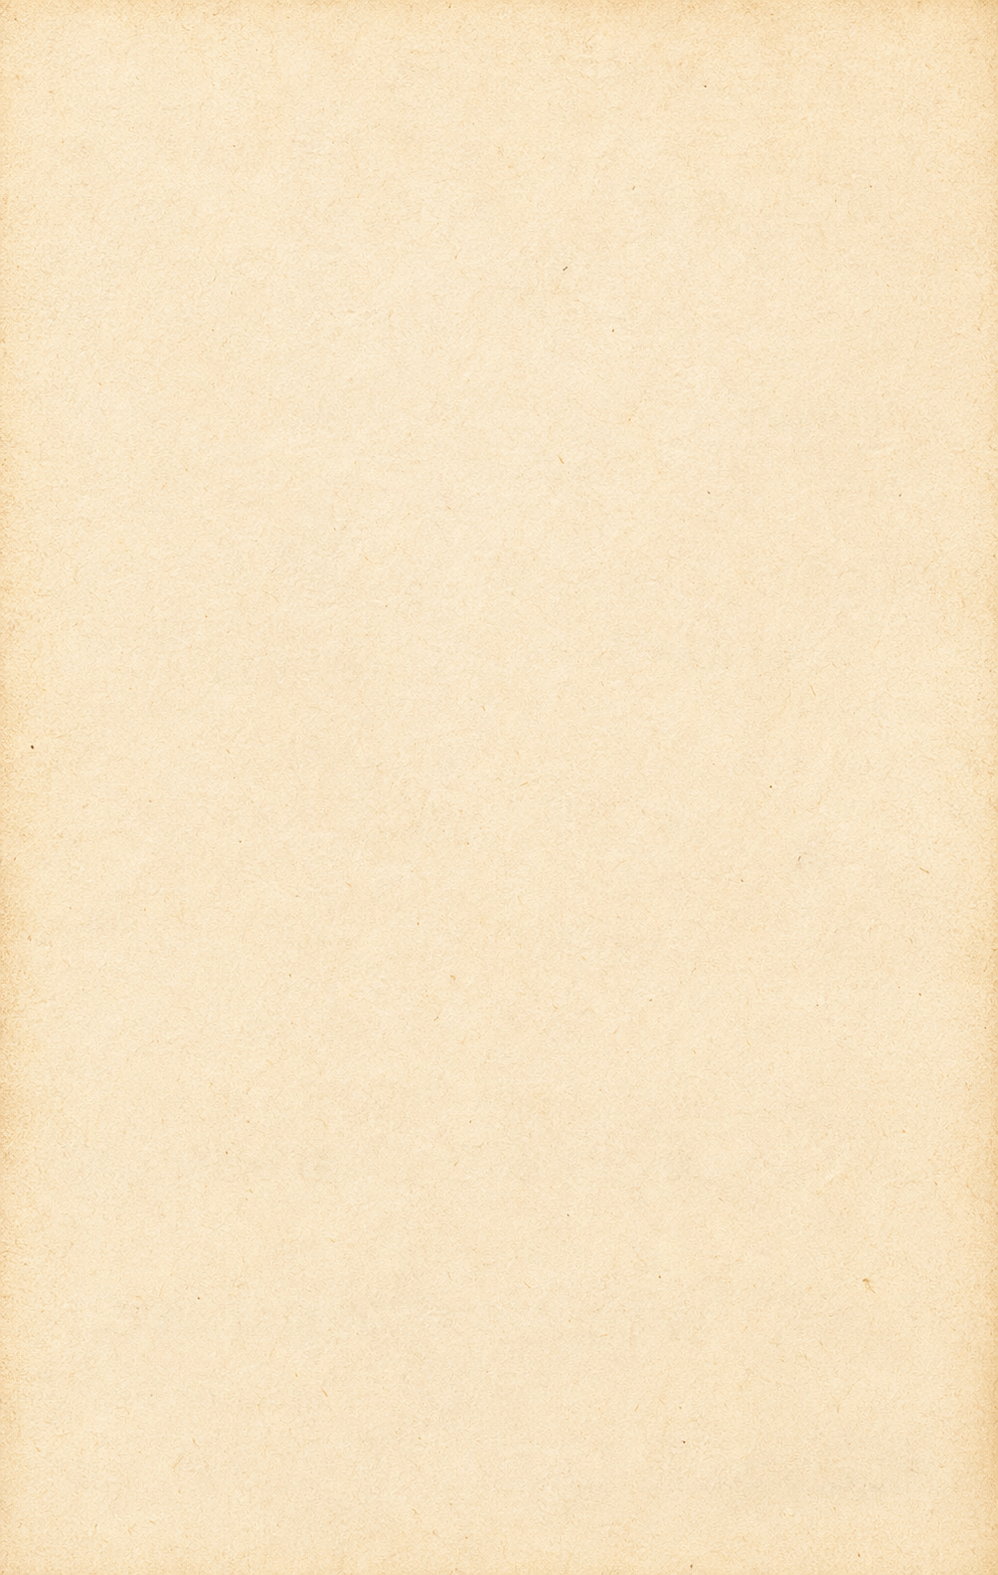
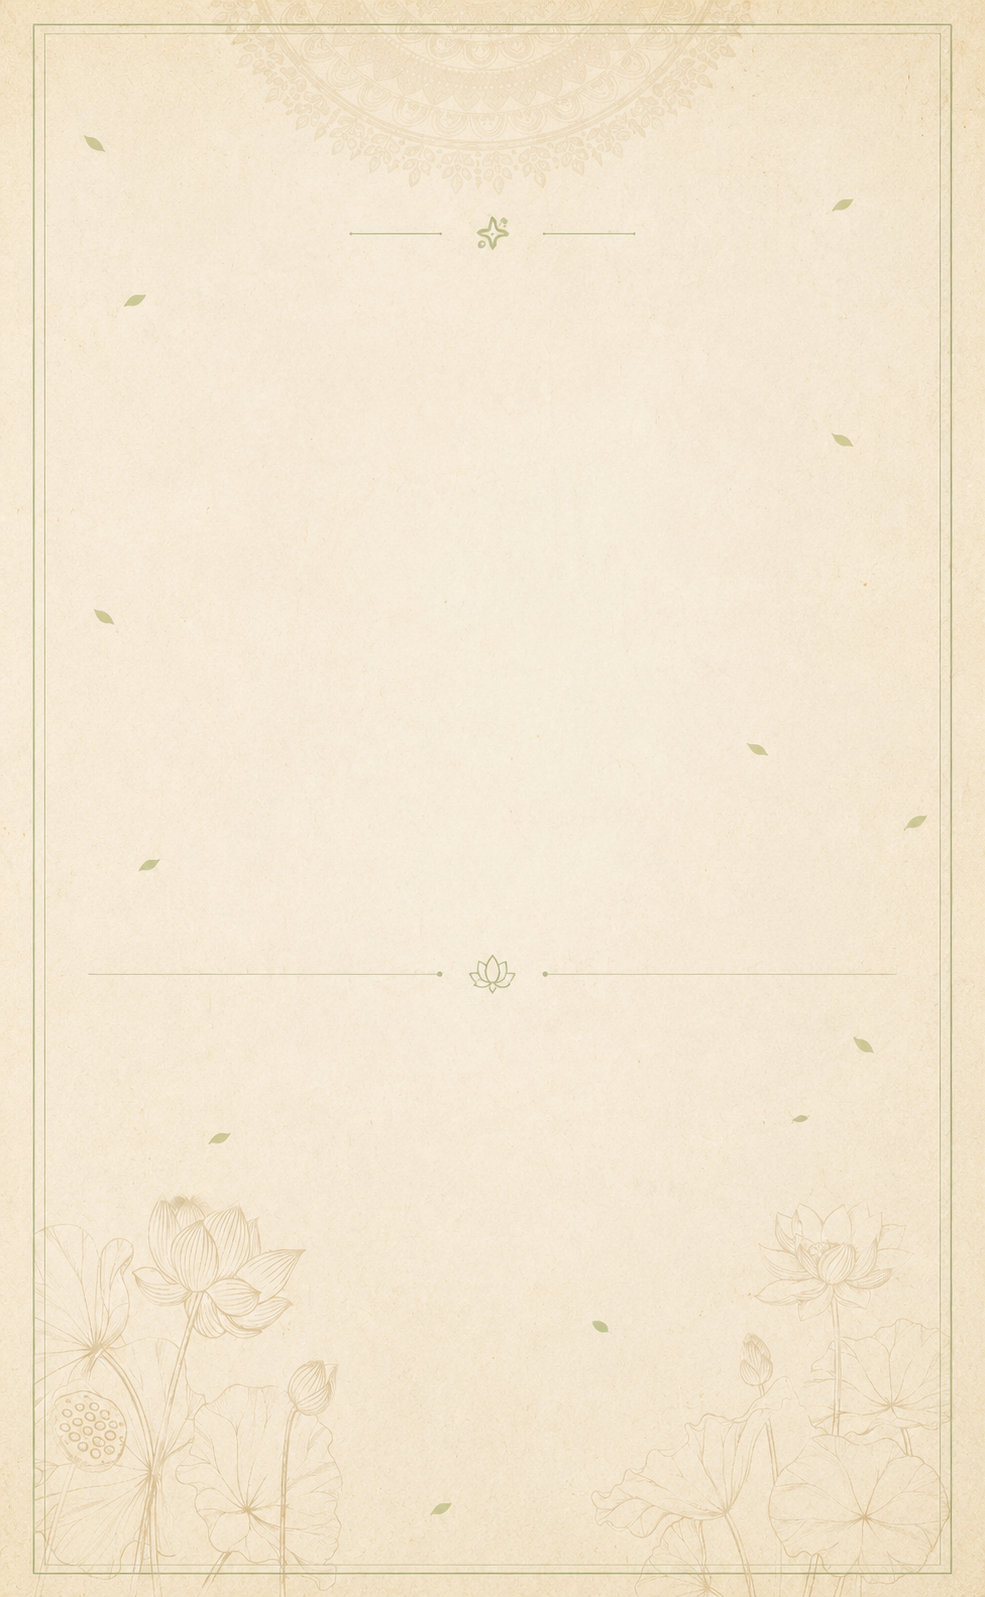
Update wedding invitation details and add Admin Link Generator

diff --git a/src/Admin.tsx b/src/Admin.tsx
@@ -1,0 +1,198 @@
+import React, { useState, useEffect } from 'react';
+
+interface GeneratedLink {
+  id: string;
+  prefix: string;
+  guestName: string;
+  url: string;
+  createdAt: string;
+}
+
+export default function Admin() {
+  const [prefix, setPrefix] = useState('Mr. & Mrs.');
+  const [guestName, setGuestName] = useState('');
+  const [links, setLinks] = useState<GeneratedLink[]>([]);
+  const [copiedId, setCopiedId] = useState<string | null>(null);
+
+  useEffect(() => {
+    const saved = localStorage.getItem('generatedLinks');
+    if (saved) {
+      setLinks(JSON.parse(saved));
+    }
+  }, []);
+
+  const prefixes = [
+    'Mr. & Mrs.',
+    'Mr.',
+    'Mrs.',
+    'Ms.',
+    'Miss',
+    'Dr. & Mrs.',
+    'Dr.',
+    'Prof.',
+    'Rev.',
+    'To'
+  ];
+
+  const handleGenerate = (e: React.FormEvent) => {
+    e.preventDefault();
+    if (!guestName.trim()) return;
+
+    const fullName = `${prefix} ${guestName.trim()}`;
+    const baseUrl = window.location.origin;
+    const url = `${baseUrl}/?to=${encodeURIComponent(fullName)}`;
+    
+    const newLink: GeneratedLink = {
+      id: crypto.randomUUID(),
+      prefix,
+      guestName: guestName.trim(),
+      url,
+      createdAt: new Date().toLocaleString('en-GB', { 
+        day: '2-digit', 
+        month: '2-digit', 
+        year: 'numeric', 
+        hour: '2-digit', 
+        minute: '2-digit' 
+      }),
+    };
+
+    const newLinks = [newLink, ...links];
+    setLinks(newLinks);
+    localStorage.setItem('generatedLinks', JSON.stringify(newLinks));
+    setGuestName('');
+  };
+
+  const handleCopy = async (link: GeneratedLink) => {
+    try {
+      await navigator.clipboard.writeText(link.url);
+      setCopiedId(link.id);
+      setTimeout(() => setCopiedId(null), 2000);
+    } catch (err) {
+      console.error('Failed to copy', err);
+    }
+  };
+
+  const handleDelete = (id: string) => {
+    const newLinks = links.filter(l => l.id !== id);
+    setLinks(newLinks);
+    localStorage.setItem('generatedLinks', JSON.stringify(newLinks));
+  };
+
+  return (
+    <div className="min-h-screen bg-slate-50 py-12 px-4 font-sans">
+      <div className="max-w-3xl mx-auto space-y-8">
+        
+        {/* Generator Card */}
+        <div className="bg-white rounded-2xl shadow-sm border border-slate-200 p-6 md:p-8">
+          <h1 className="text-2xl font-bold text-slate-800 mb-6 flex items-center gap-2">
+            <svg width="24" height="24" viewBox="0 0 24 24" fill="none" stroke="currentColor" strokeWidth="2" strokeLinecap="round" strokeLinejoin="round" className="text-emerald-600">
+              <path d="M10 13a5 5 0 0 0 7.54.54l3-3a5 5 0 0 0-7.07-7.07l-1.72 1.71"></path>
+              <path d="M14 11a5 5 0 0 0-7.54-.54l-3 3a5 5 0 0 0 7.07 7.07l1.71-1.71"></path>
+            </svg>
+            LINK GENERATOR
+          </h1>
+
+          <form onSubmit={handleGenerate} className="space-y-5">
+            <div className="grid grid-cols-1 md:grid-cols-3 gap-5">
+              <div className="space-y-2">
+                <label className="text-sm font-semibold text-slate-600">Select Prefix</label>
+                <select
+                  value={prefix}
+                  onChange={(e) => setPrefix(e.target.value)}
+                  className="w-full bg-slate-50 border border-slate-200 rounded-xl px-4 py-3 text-slate-800 focus:outline-none focus:ring-2 focus:ring-emerald-500/20 focus:border-emerald-500 transition-all appearance-none"
+                >
+                  {prefixes.map(p => (
+                    <option key={p} value={p}>{p}</option>
+                  ))}
+                </select>
+              </div>
+
+              <div className="space-y-2 md:col-span-2">
+                <label className="text-sm font-semibold text-slate-600">Guest Name</label>
+                <input
+                  type="text"
+                  placeholder="e.g. John Doe"
+                  value={guestName}
+                  onChange={(e) => setGuestName(e.target.value)}
+                  className="w-full bg-slate-50 border border-slate-200 rounded-xl px-4 py-3 text-slate-800 focus:outline-none focus:ring-2 focus:ring-emerald-500/20 focus:border-emerald-500 transition-all placeholder:text-slate-400"
+                  required
+                />
+              </div>
+            </div>
+
+            <button
+              type="submit"
+              className="w-full bg-emerald-600 hover:bg-emerald-700 text-white font-semibold py-3.5 rounded-xl transition-colors shadow-sm active:scale-[0.99] flex justify-center items-center gap-2"
+            >
+              <svg width="20" height="20" viewBox="0 0 24 24" fill="none" stroke="currentColor" strokeWidth="2" strokeLinecap="round" strokeLinejoin="round">
+                <line x1="12" y1="5" x2="12" y2="19"></line>
+                <line x1="5" y1="12" x2="19" y2="12"></line>
+              </svg>
+              Generate Link
+            </button>
+          </form>
+        </div>
+
+        {/* Generated Links List */}
+        <div className="bg-white rounded-2xl shadow-sm border border-slate-200 p-6 md:p-8">
+          <h2 className="text-lg font-bold text-slate-800 mb-6 flex items-center gap-2">
+            <svg width="20" height="20" viewBox="0 0 24 24" fill="none" stroke="currentColor" strokeWidth="2" strokeLinecap="round" strokeLinejoin="round" className="text-slate-400">
+              <circle cx="12" cy="12" r="10"></circle>
+              <polyline points="12 6 12 12 16 14"></polyline>
+            </svg>
+            Recently Generated Links
+          </h2>
+
+          {links.length === 0 ? (
+            <div className="text-center py-10 text-slate-400 text-sm">
+              No links generated yet.
+            </div>
+          ) : (
+            <div className="space-y-4">
+              {links.map((link) => (
+                <div key={link.id} className="group flex flex-col md:flex-row md:items-center justify-between p-4 rounded-xl border border-slate-100 bg-slate-50/50 hover:border-slate-200 transition-colors gap-4">
+                  <div className="min-w-0">
+                    <p className="font-medium text-slate-800 truncate">
+                      {link.prefix} {link.guestName}
+                    </p>
+                    <p className="text-xs text-slate-500 mt-1">
+                      {link.createdAt.replace(',', '')}
+                    </p>
+                  </div>
+
+                  <div className="flex items-center gap-2 shrink-0">
+                    <button
+                      onClick={() => handleCopy(link)}
+                      className="flex-1 md:flex-none flex items-center justify-center gap-2 px-4 py-2 bg-white border border-slate-200 hover:border-slate-300 hover:bg-slate-50 text-slate-700 text-sm font-medium rounded-lg transition-colors"
+                    >
+                      {copiedId === link.id ? (
+                        <>
+                          <svg width="16" height="16" viewBox="0 0 24 24" fill="none" stroke="currentColor" strokeWidth="2" strokeLinecap="round" strokeLinejoin="round" className="text-emerald-500"><polyline points="20 6 9 17 4 12"></polyline></svg>
+                          Copied!
+                        </>
+                      ) : (
+                        <>
+                          <svg width="16" height="16" viewBox="0 0 24 24" fill="none" stroke="currentColor" strokeWidth="2" strokeLinecap="round" strokeLinejoin="round" className="text-slate-400"><rect x="9" y="9" width="13" height="13" rx="2" ry="2"></rect><path d="M5 15H4a2 2 0 0 1-2-2V4a2 2 0 0 1 2-2h9a2 2 0 0 1 2 2v1"></path></svg>
+                          Copy
+                        </>
+                      )}
+                    </button>
+                    
+                    <button
+                      onClick={() => handleDelete(link.id)}
+                      className="p-2 text-slate-400 hover:text-red-500 hover:bg-red-50 rounded-lg transition-colors"
+                      title="Delete link"
+                    >
+                      <svg width="18" height="18" viewBox="0 0 24 24" fill="none" stroke="currentColor" strokeWidth="2" strokeLinecap="round" strokeLinejoin="round"><path d="M3 6h18"></path><path d="M19 6v14a2 2 0 0 1-2 2H7a2 2 0 0 1-2-2V6m3 0V4a2 2 0 0 1 2-2h4a2 2 0 0 1 2 2v2"></path><line x1="10" y1="11" x2="10" y2="17"></line><line x1="14" y1="11" x2="14" y2="17"></line></svg>
+                    </button>
+                  </div>
+                </div>
+              ))}
+            </div>
+          )}
+        </div>
+
+      </div>
+    </div>
+  );
+}

diff --git a/src/App.tsx b/src/App.tsx
@@ -4,29 +4,29 @@ import { Sparkles, MapPin, Calendar, Clock, ChevronDown } from "lucide-react";
 
 const INVITATION = {
   couple: {
-    bride: "සයුරි",
-    groom: "චතුර",
-    brideFull: "සයුරි",
-    groomFull: "චතුර",
+    bride: "මලීෂා",
+    groom: "කවිඳු",
+    brideFull: "මලීෂා කුමාරප්පෙරුම",
+    groomFull: "කවිඳු ගෝවින්ද",
   },
   date: {
-    displayNumeric: "05 . 11 . 2026",
-    displayLong: "බ්රහස්පතින්දා, 05 නොවැම්බර් 2026",
-    countdownTarget: "2026-11-05T10:02:00+05:30",
+    displayNumeric: "23 . 07 . 2026",
+    displayLong: "වර්ෂ 2026 ක් වූ ජූලි මස 23 වන දින",
+    countdownTarget: "2026-07-23T10:10:00+05:30",
   },
   time: {
-    ceremonyStart: "පෙ.ව. 10:02",
-    ceremonyEnd: "පෙ.ව. 10:32",
+    ceremonyStart: "පෙ.ව. 10:10",
+    ceremonyEnd: "ප.ව. 3:30",
     registration: "පෙ.ව. 10:45",
-    welcome: "පෙ.ව. 11:00",
+    welcome: "පෙ.ව. 9:30",
   },
   venue: {
-    name: "අමායා හිල්ස්",
-    city: "මහනුවර",
-    mapQuery: "Amaya Hills, Kandy",
-    googleMapsLink: "https://www.google.com/maps/search/?api=1&query=Amaya+Hills+Kandy",
+    name: "Grandeeza Hotel",
+    city: "Negombo",
+    mapQuery: "Grandeeza Hotel, Negombo",
+    googleMapsLink: "https://maps.app.goo.gl/oFXbL74vBvHcvBX69",
   },
-  rsvpContacts: ["චන්දන – 076 9640 950", "චතුර – 077 1432 866"],
+  rsvpContacts: ["එස්. කුමාරප්පෙරුම – 0711-321721 / 071-2657070"],
 } as const;
 
 const backgroundMusic = "/Datha_Dara_Dhanith_Sri_Sarigama_lk (1).mp3";
@@ -263,6 +263,9 @@ export default function WeddingInvitation() {
   const [isPlaying, setIsPlaying] = useState(false);
   const [hasAttemptedAutoplay, setHasAttemptedAutoplay] = useState(false);
 
+  const searchParams = new URLSearchParams(window.location.search);
+  const guestName = searchParams.get("to");
+
   const [rsvpForm, setRsvpForm] = useState({
     name: "",
     guests: "1",
@@ -378,7 +381,6 @@ export default function WeddingInvitation() {
           >
             <video
               ref={introVideoRef}
-              src="/intro_video.mp4"
               muted={!hasStarted}
               playsInline
               preload="auto"
@@ -387,8 +389,10 @@ export default function WeddingInvitation() {
               className={`w-full h-full object-cover transition-all duration-[2000ms] ease-out ${!hasStarted ? "blur-md scale-105 opacity-80" : "blur-0 scale-100 opacity-100"
                 }`}
               onEnded={() => setIsOpened(true)}
-              onError={() => setIsOpened(true)}
-            />
+              onError={(e) => { console.error("Video error:", e); setIsOpened(true); }}
+            >
+              <source src="/intro_video.mp4" type="video/mp4" />
+            </video>
 
             {!hasStarted && (
               <div className="absolute inset-0 flex flex-col items-center justify-center z-[120] bg-black/40 backdrop-blur-[2px]">
@@ -521,14 +525,21 @@ export default function WeddingInvitation() {
 
             <section className="w-full relative flex items-start justify-center overflow-hidden bg-transparent min-h-[85vh] pt-20 md:pt-32">
               <div
-                className="absolute inset-0 bg-center bg-cover opacity-30"
-                style={{ backgroundImage: `url("${HERO_BACKGROUND_IMAGE}")` }}
+                className="absolute inset-0 bg-center bg-cover"
+                style={{ backgroundImage: `url("/ChatGPT%20Image%20Jun%208,%202026,%2002_43_56%20AM.png")` }}
                 aria-hidden="true"
               />
-              <div className="absolute inset-0 bg-white/20" aria-hidden="true" />
-              <div className="absolute inset-0 bg-gradient-to-b from-transparent via-white/40 to-white" aria-hidden="true" />
 
               <div className="relative z-10 w-full max-w-5xl px-6 text-center">
+                {guestName && (
+                  <motion.p
+                    initial={{ opacity: 0, y: -10 }}
+                    animate={{ opacity: 1, y: 0 }}
+                    className="text-lg md:text-xl font-bold text-[#2d5a27] mb-2 drop-shadow-[0_0_10px_rgba(255,255,255,0.8)]"
+                  >
+                    {guestName}
+                  </motion.p>
+                )}
                 <motion.p
                   initial={{ opacity: 0, y: -10 }}
                   animate={{ opacity: 1, y: 0 }}
@@ -562,7 +573,7 @@ export default function WeddingInvitation() {
                   initial={{ opacity: 0, y: 16 }}
                   animate={{ opacity: 1, y: 0 }}
                   transition={{ delay: 0.35, duration: 0.8 }}
-                  className="mt-12 space-y-5"
+                  className="mt-4 md:mt-12 space-y-4 md:space-y-5"
                 >
                   <p className="text-sm md:text-base tracking-[0.35em] text-[#2d5a27] font-bold drop-shadow-[0_0_8px_rgba(255,255,255,0.8)]">
                     {INVITATION.date.displayLong}
@@ -620,17 +631,17 @@ export default function WeddingInvitation() {
 
                   <div className="text-[#2d5a27] space-y-6 max-w-3xl mx-auto leading-relaxed text-base md:text-lg">
                     <p className="text-slate-700">
-                      උපාලි ගනේවත්ත මහතාගේ සහ නාලනී උයන්වත්ත මහත්මියගේ ආදරණීය දියණිය වන
+                      කුමාරප්පෙරුම මහතාගේ සහ එම මහත්මියගේ ආදරණීය දියණිය වන
                     </p>
                     <h3 className="text-3xl md:text-4xl font-bold text-[#3f7a39] my-2">
-                      සයුරි,
+                      මලීෂා කුමාරප්පෙරුම
                     </h3>
 
                     <p className="text-slate-700">
-                      ඕ. කේ. අලුත්ගමගේ මහතාගේ සහ රංජනී රාජපක්ෂ මහත්මියගේ ආදරණීය පුත් වන
+                      හෙට්ටිආරච්චිගේ මහතාගේ සහ එම මහත්මියගේ ආදරණීය පුත් වන
                     </p>
                     <h3 className="text-3xl md:text-4xl font-bold text-[#3f7a39] my-2">
-                      චතුර
+                      කවිඳු ගෝවින්ද
                     </h3>
 
                     <p className="text-slate-700 max-w-2xl mx-auto pt-2">
@@ -638,14 +649,17 @@ export default function WeddingInvitation() {
                     </p>
 
                     <div className="py-6 my-4 border-t border-b border-[#a2c5a0]/50 space-y-3 font-semibold text-[#2d5a27]">
-                      <p>2026 නොවැම්බර් මස 05 වන ගුරු දින,</p>
-                      <p>අමායා හිල්ස් උත්සව ශාලා පරිශ්රයට,</p>
-                      <p>ඔබට</p>
-                      <p className="text-lg md:text-xl font-bold">පැමිණෙන මෙන් ගෞරවයෙන් ආරාධනා කර සිටිමු.</p>
+                      <p>වර්ෂ 2026 ක් වූ ජූලි මස 23 වන දින</p>
+                      <p>පෙරවරු 9.30 සිට පස්වරු 3.30 දක්වා,</p>
+                      <p>Grandeeza Hotel - Negombo හිදී පැවැත්වෙන මංගල උත්සවයට</p>
+                      <p className="text-xl md:text-2xl font-bold text-[#800000] my-2">
+                        {guestName ? guestName : "ඔබට / ඔබ දෙපලට / ඔබ සැමට"}
+                      </p>
+                      <p className="text-lg md:text-xl font-bold">සෙනෙහසින් සිතින් ඇරයුම් කරන්නෙමු.</p>
                     </div>
 
                     <p className="text-[#3f7a39] font-bold text-sm md:text-base">
-                      (පෝරුවේ චාරිත්ර පෙ.ව. 10.02 ට)
+                      (පෝරුවේ චාරිත්ර පෙ.ව. 10.10 ට)
                     </p>
 
                     <p className="text-[#2d5a27] font-bold text-lg md:text-xl mt-6">
@@ -819,8 +833,6 @@ export default function WeddingInvitation() {
                 </motion.div>
               </div>
             </section>
-
-            <Gallery />
 
 
             <section className="relative py-16 md:py-48 bg-transparent flex flex-col items-center overflow-hidden">

diff --git a/src/main.tsx b/src/main.tsx
@@ -1,10 +1,13 @@
 import { StrictMode } from 'react';
 import { createRoot } from 'react-dom/client';
 import App from './App';
+import Admin from './Admin';
 import './index.css';
+
+const path = window.location.pathname;
 
 createRoot(document.getElementById('root')!).render(
   <StrictMode>
-    <App />
+    {path === '/admin' ? <Admin /> : <App />}
   </StrictMode>,
 );

diff --git a/index.html b/index.html
@@ -4,7 +4,7 @@
 <head>
   <meta charset="UTF-8" />
   <meta name="viewport" content="width=device-width, initial-scale=1.0" />
-  <title>සයුරි සහ චතුරගේ විවාහ ආරාධනය</title>
+  <title> මලීෂා සහ කවිඳුගේ විවාහ ආරාධනය</title>
   <link rel="preconnect" href="https://fonts.googleapis.com">
   <link rel="preconnect" href="https://fonts.gstatic.com" crossorigin>
   <link